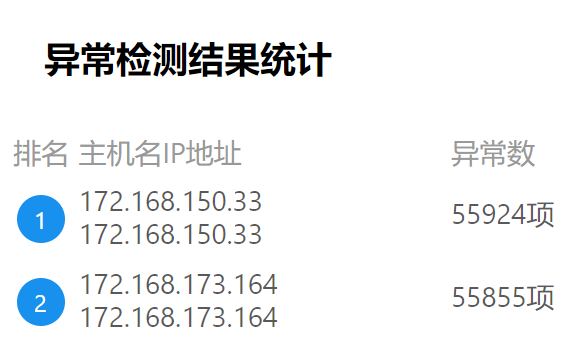
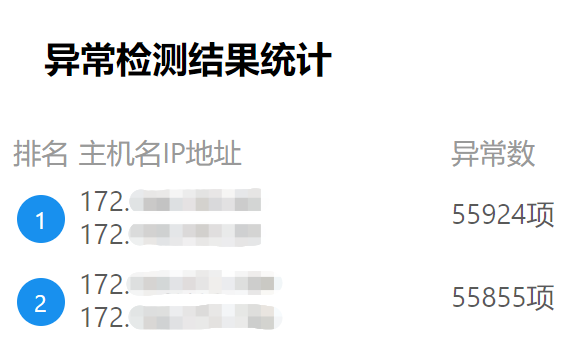
modify ip address and pic

Changed region(s): [[0.2073, 0.5253, 0.4739, 0.7107], [0.2073, 0.7725, 0.5035, 0.927]]

diff --git a/docs/zh/docs/Aopsuserguide/异常检测服务手册.md b/docs/zh/docs/Aopsuserguide/异常检测服务手册.md
@@ -459,7 +459,7 @@ vim /etc/aops/check_scheduler.ini
 ; kafka producer相关参数
 [producer] 
 ; kafka服务器列表，为host:port组成的列表，端口默认是9092，IP默认取localhost
-kafka_server_list = 90.90.64.64:9092
+kafka_server_list = 192.168.1.1:9092
 ; kafka API的版本，默认取0.11.5
 api_version = 0.11.5
 ; kafka的leader在确认请求完成前收到的ack数量。默认为1。
@@ -475,7 +475,7 @@ retry_backoff_ms = 100
 ; kafka consumer相关参数
 [consumer]
 ; kafka服务器列表，为host:port组成的列表，端口默认是9092，IP默认取localhost
-kafka_server_list = 90.90.64.64:9092
+kafka_server_list = 192.168.1.1:9092
 ; 如果为True, consumer的offset会在后台定期commit
 enable_auto_commit = False
 ; 针对OffsetOutOfRange错误的offset重置策略。
@@ -538,7 +538,7 @@ vim /etc/aops/check_executor.ini
 ; check scheduler的相关配置参数
 [consumer]
 ; kafka服务器列表，为host:port组成的列表，端口默认是9092，IP默认取localhost
-kafka_server_list=90.90.64.64:9092
+kafka_server_list=192.168.1.1:9092
 ; 如果为True, consumer的offset会在后台定期commit
 enable_auto_commit=False
 ; 针对OffsetOutOfRange错误的offset重置策略。
@@ -553,7 +553,7 @@ max_records=3
 ; kafka producer相关参数
 [producer]
 ; kafka服务器列表，为host:port组成的列表，端口默认是9092，IP默认取localhost
-kafka_server_list=90.90.64.64:9092
+kafka_server_list=192.168.1.1:9092
 ; kafka API的版本，默认取0.11.5
 api_version=0.11.5
 ; kafka的leader在确认请求完成前收到的ack数量。默认为1。
@@ -706,7 +706,7 @@ sample_period = 15
 
 1. 查看异常检测结果列表。
 
-![获取异常检测结果](pic/20210908212726.jpg)
+![获取异常检测结果](pic/20210908212726.png)
 
 2. 查看异常检测结果统计。
 

diff --git a/docs/zh/docs/Aopsuserguide/自动化部署服务手册.md b/docs/zh/docs/Aopsuserguide/自动化部署服务手册.md
@@ -879,7 +879,7 @@ gala_spider_kafka_host: 192.168.1.1
 gala_spider_listening_kafka_port: 9092
 
 # excluded addr
-exclude_addr: ["1.2.3.4"]
+exclude_addr: ["192.168.x.x"]
 # basic table name, please don't delete originally contains in the list. And append items in order if necessary:
 base_table_name: ["tcp_link", "lvs_link"]
 other_table_name: ["nginx_statistic" , "lvs_link" , "haproxy_link" , "dnsmasq_link"]
